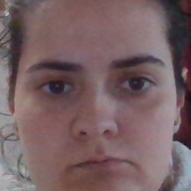
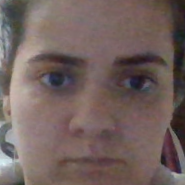
modificare preprocesare in emotion_predictor

diff --git a/src/emotion_recognition/onnx_emotion_predictor.py b/src/emotion_recognition/onnx_emotion_predictor.py
@@ -80,24 +80,32 @@ class OnnxEmotionPredictor:
         self._save_debug_image(f"sample_{self.debug_save_count}_frame.png", frame_bgr)
 
     def _prepare_from_roi(self, face_roi, use_equalization=True):
-        """
-        Prepare ONNX input directly from the already prepared face ROI.
-        The FERPlus ONNX model expects grayscale 64x64 in NCHW layout.
-        This path keeps pixel values in the 0..255 range as float32.
-        """
+
+    #Prepare ONNX input directly from the already prepared face ROI.
+    #FERPlus ONNX v7 expects grayscale 64x64, float32, range 0..255, NCHW layout.
+
         if face_roi is None:
             return None, None
 
-        prepared_roi = face_roi
-        gray = cv2.cvtColor(prepared_roi, cv2.COLOR_BGR2GRAY)
-        if use_equalization:
-            gray = cv2.equalizeHist(gray)
+         # 1. Grayscale
+        gray = cv2.cvtColor(face_roi, cv2.COLOR_BGR2GRAY)
 
-        onnx_input_64 = cv2.resize(gray, (64, 64), interpolation=cv2.INTER_LINEAR)
-        nchw = np.expand_dims(np.expand_dims(onnx_input_64.astype(np.float32), axis=0), axis=0)
+         # 2. CLAHE in loc de equalizeHist — mai bun pentru iluminare variabila
+        if use_equalization:
+            clahe = cv2.createCLAHE(clipLimit=2.0, tileGridSize=(4, 4))
+            gray = clahe.apply(gray)
+
+    # 3. INTER_AREA pentru downscaling — mai putin aliasing
+        onnx_input_64 = cv2.resize(gray, (64, 64), interpolation=cv2.INTER_AREA)
+
+    # 4. FERPlus v7 asteapta 0..255 ca float32 — pastram asta
+        nchw = np.expand_dims(
+            np.expand_dims(onnx_input_64.astype(np.float32), axis=0), axis=0
+    )
 
         return nchw, onnx_input_64
 
+        
     def _log_top3(self, probabilities):
         top_indices = np.argsort(probabilities)[-3:][::-1]
         top3 = [

diff --git a/src/runtime_config.py b/src/runtime_config.py
@@ -5,9 +5,10 @@ from paths import project_path
 
 @dataclass(frozen=True)
 class CameraConfig:
+    backend: str = "picamera2"
     camera_index: int = 0
-    width: int = 640
-    height: int = 480
+    width: int = 800
+    height: int = 600
 
 
 @dataclass(frozen=True)
@@ -25,7 +26,7 @@ class FaceRoiConfig:
     padding_px: int = 20
     crop_scale: float = 0.9
     crop_center_y_ratio: float = 0.46
-    onnx_use_equalization: bool = False
+    onnx_use_equalization: bool = True 
 
 
 @dataclass(frozen=True)

diff --git a/src/app.py b/src/app.py
@@ -89,7 +89,7 @@ def main():
     config = RUNTIME_CONFIG
     debug_pipeline = config.logging.debug_pipeline
 
-    camera_backend = os.getenv("RUSTY_CAMERA_BACKEND", "auto")
+    camera_backend = os.getenv("RUSTY_CAMERA_BACKEND", config.camera.backend)
     camera_width = int(os.getenv("RUSTY_CAMERA_WIDTH", str(config.camera.width)))
     camera_height = int(os.getenv("RUSTY_CAMERA_HEIGHT", str(config.camera.height)))
     camera_index = int(os.getenv("RUSTY_CAMERA_INDEX", str(config.camera.camera_index)))
